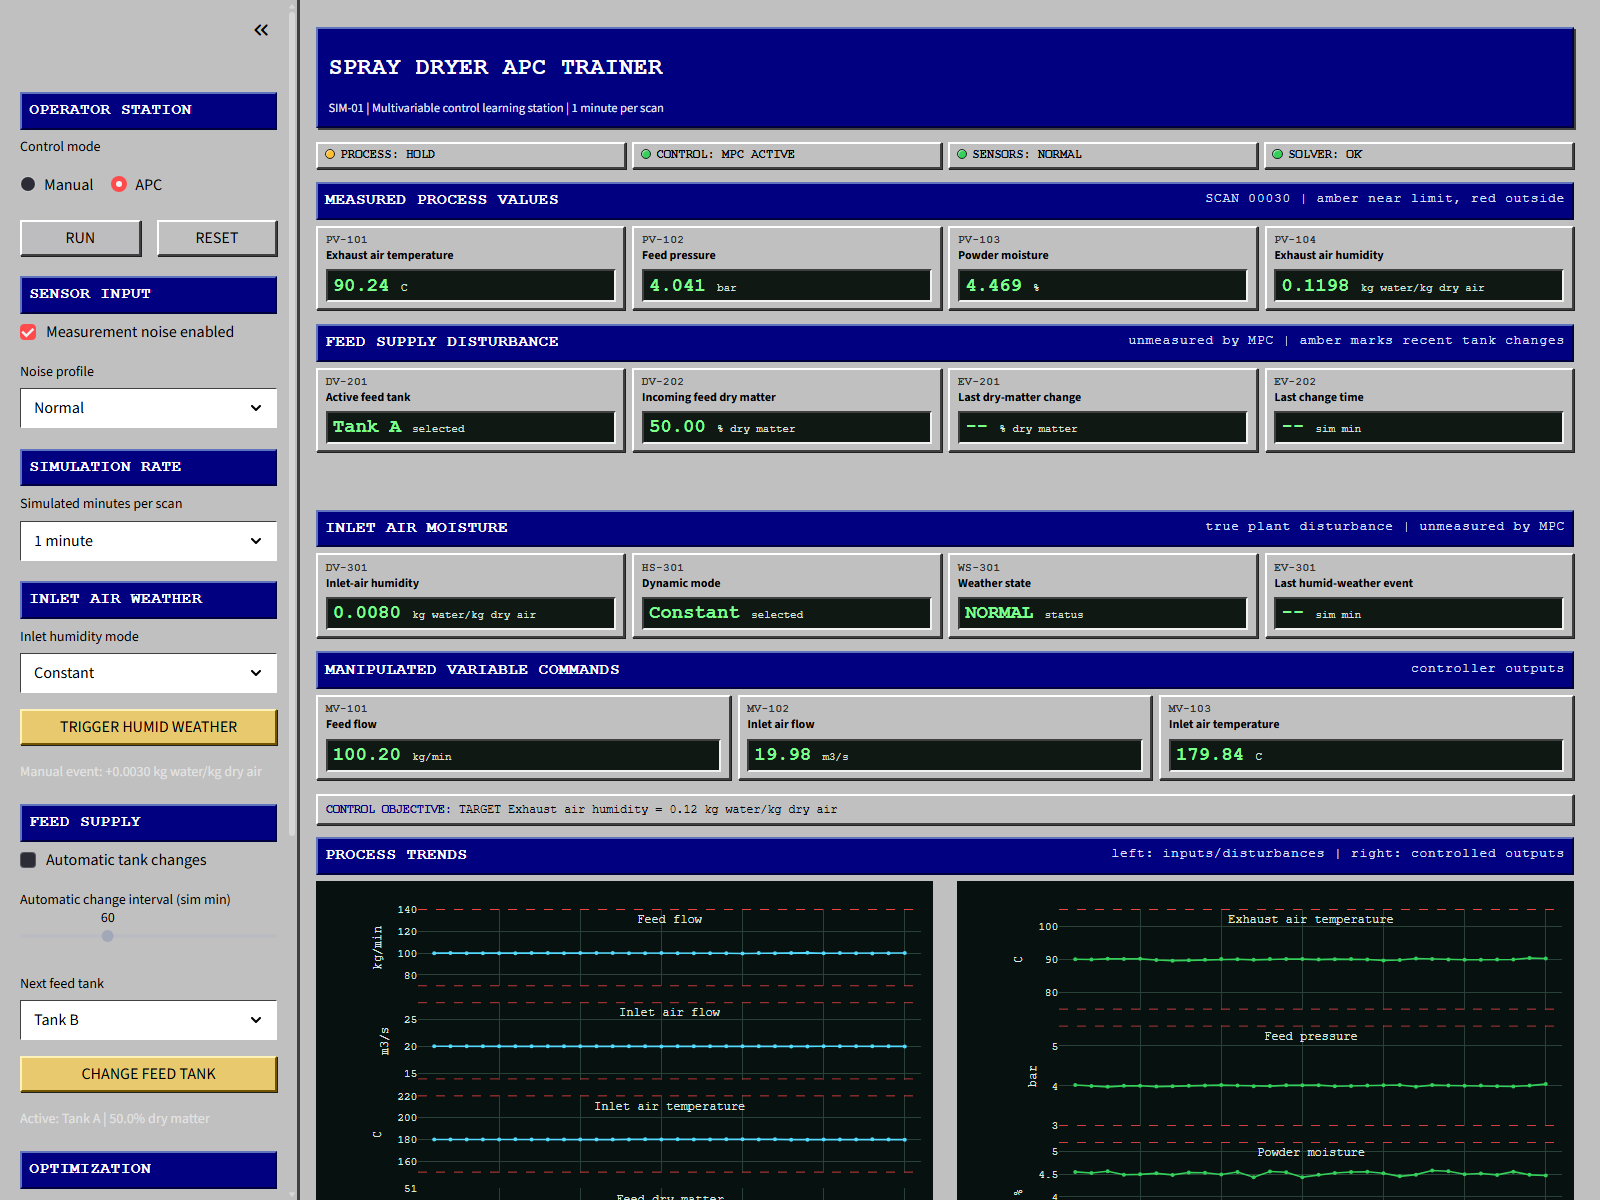
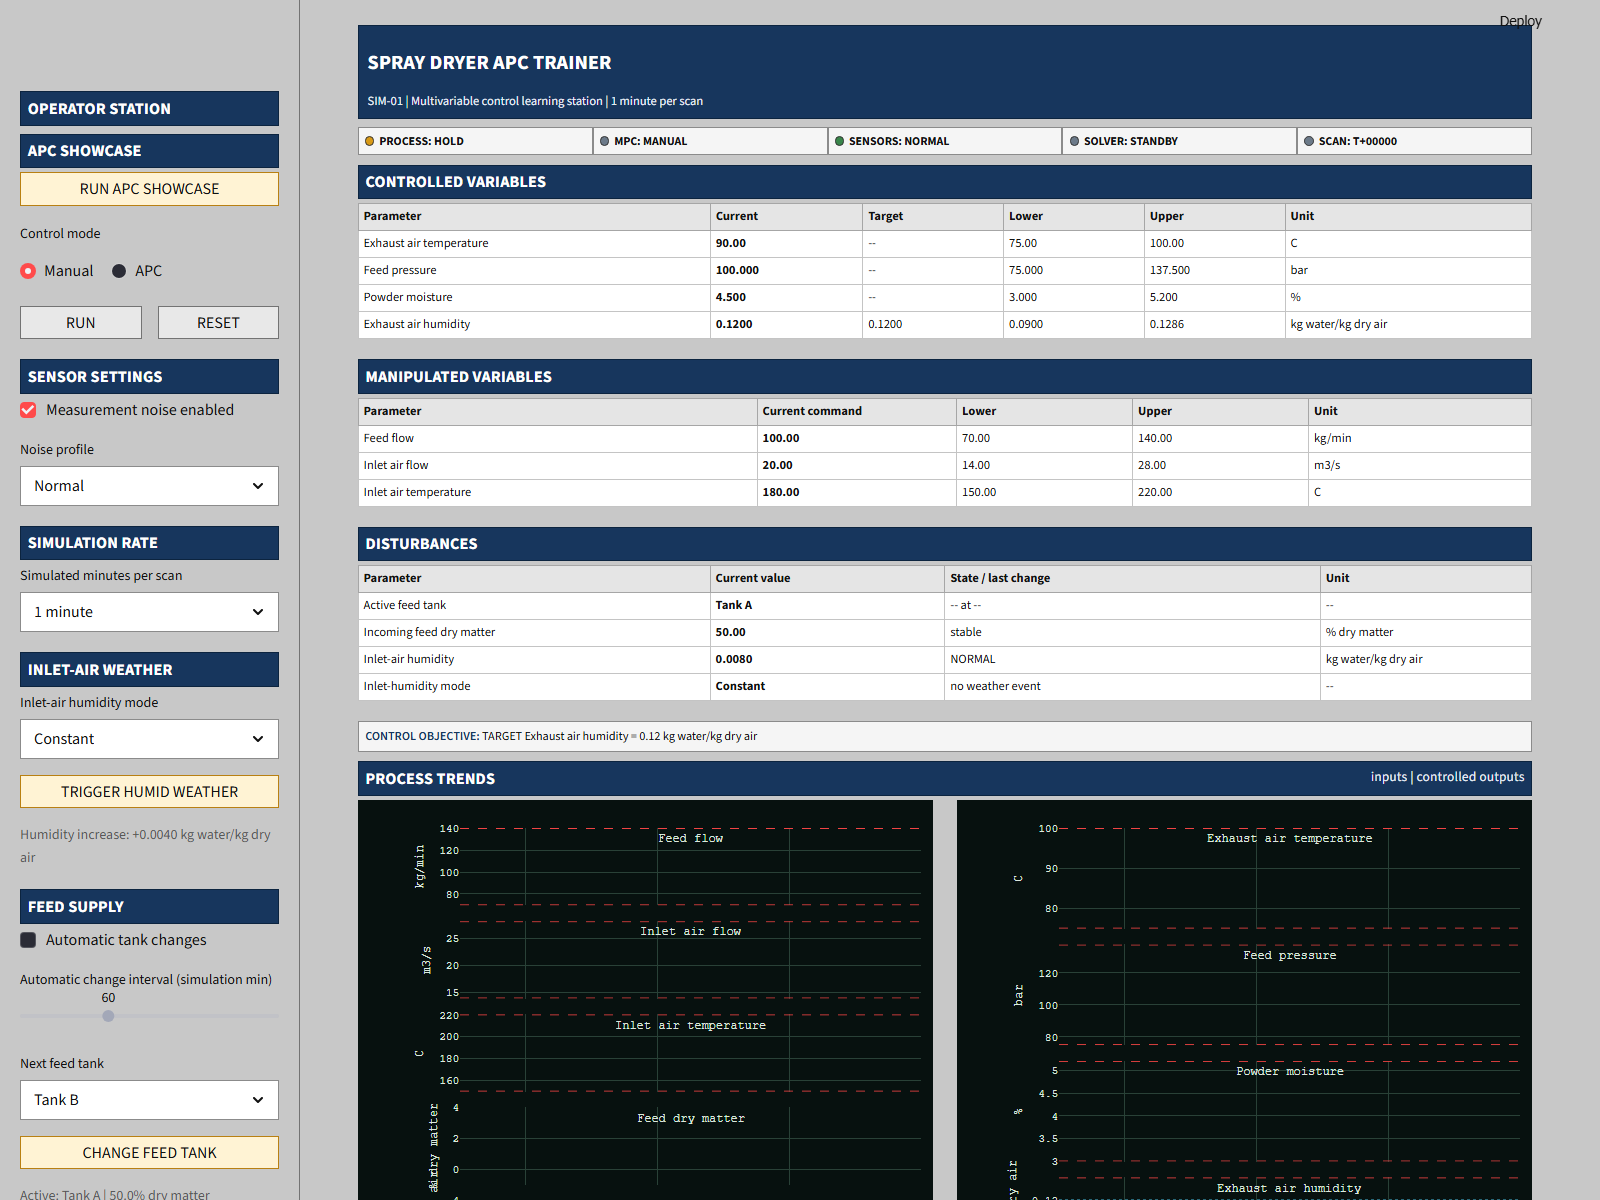
Polish APC dashboard and finalize documentation

diff --git a/apc_lab/components/operating_map/component.js b/apc_lab/components/operating_map/component.js
@@ -122,7 +122,7 @@ function staticTraces(background, snapshot, current) {
     mode: "lines",
     name: "Derived humidity maximum",
     line: { color: COLORS.risk, width: 1.5, dash: "dash" },
-    hovertemplate: `Derived humidity maximum: ${constraint.maximum_humidity.toFixed(4)} kg/kg dry air<extra></extra>`,
+    hovertemplate: `Derived humidity maximum: ${constraint.maximum_humidity.toFixed(4)} kg water/kg dry air<extra></extra>`,
   });
   traces.push({
     x: [constraint.maximum_humidity],
@@ -130,7 +130,7 @@ function staticTraces(background, snapshot, current) {
     mode: "markers",
     name: "Safe-limit intersection",
     marker: { color: COLORS.risk, size: 9, symbol: "diamond" },
-    hovertemplate: `Safe-limit intersection<br>w=${constraint.maximum_humidity.toFixed(4)} kg/kg dry air<br>T=${constraint.maximum_exhaust_temperature.toFixed(1)} C<extra></extra>`,
+    hovertemplate: `Safe-limit intersection<br>w=${constraint.maximum_humidity.toFixed(4)} kg water/kg dry air<br>T=${constraint.maximum_exhaust_temperature.toFixed(1)} C<extra></extra>`,
   });
   traces.push({
     x: [null],

diff --git a/live_app.py b/live_app.py
@@ -548,9 +548,9 @@ rejects both through measured-output feedback.
             """
 The input delay is **3 simulated minutes**. A tank change sets a new dry-matter
 target and the feed line transitions to it with a **2 minute** first-order lag.
-Inlet humidity is represented as kg water per kg dry air. Sensible heating does
-not change this humidity ratio; humid weather therefore adds water load at the
-dryer inlet.
+Inlet-air humidity is represented as kg water per kg dry air. Sensible heating
+does not change this humidity ratio; humid weather therefore adds water load at
+the dryer inlet.
 A gain is the final output change caused by one unit of input change, with
 other inputs held constant. Sensor noise can be disabled or scaled in the
 operator station.
@@ -628,8 +628,8 @@ The operating map uses the true simulated exhaust temperature and humidity
 ratio. Moist-air enthalpy is calculated as
 `h = 1.006 T + w (2501 + 1.86 T)` in kJ/kg dry air. Relative-humidity
 references use the Antoine saturation-pressure correlation at 101.325 kPa.
-The displayed stickiness curve is a configured, product-independent model
-boundary. It is not an operating limit for a real product or dryer.
+The displayed stickiness curve is a configured example boundary. It is not a
+validated correlation or operating limit for a real product or dryer.
 """
         )
 
@@ -837,7 +837,7 @@ with st.sidebar:
         "RESET", width="stretch", on_click=reset, disabled=showcase.engaged
     )
 
-    render_sidebar_title("SENSOR INPUT")
+    render_sidebar_title("SENSOR SETTINGS")
     noise_checkbox_args: dict[str, object] = {
         "key": "noise_enabled",
         "disabled": showcase.engaged,
@@ -869,9 +869,9 @@ with st.sidebar:
     st.session_state.dryer.configure_time_step(simulation_minutes_per_tick)
     st.session_state.controller.configure_time_step(simulation_minutes_per_tick)
 
-    render_sidebar_title("INLET AIR WEATHER")
+    render_sidebar_title("INLET-AIR WEATHER")
     weather_mode = st.selectbox(
-        "Inlet humidity mode",
+        "Inlet-air humidity mode",
         WEATHER_MODES,
         index=widget_default("weather_mode", 0),
         key="weather_mode",
@@ -887,7 +887,7 @@ with st.sidebar:
         disabled=showcase.engaged,
     )
     st.caption(
-        f"Manual event: +{HUMID_WEATHER_INCREASE:.4f} {INLET_HUMIDITY_UNIT}"
+        f"Humidity increase: +{HUMID_WEATHER_INCREASE:.4f} {INLET_HUMIDITY_UNIT}"
     )
 
     render_sidebar_title("FEED SUPPLY")
@@ -903,7 +903,7 @@ with st.sidebar:
         **automatic_tank_checkbox_args,
     )
     automatic_tank_interval = st.slider(
-        "Automatic change interval (sim min)",
+        "Automatic change interval (simulation min)",
         30,
         120,
         widget_default("automatic_tank_interval", 60),
@@ -1242,10 +1242,34 @@ def live_panel() -> None:
     weather_active = weather_manager.state != "NORMAL"
     render_section_title("DISTURBANCES")
     disturbance_rows = [
-        ["Active feed tank", tank_manager.current_tank, f"{last_change_values} at {last_change_minute}", "selected"],
-        ["Incoming feed dry matter", f"{st.session_state.dryer.feed_dry_matter:.2f}", "recent change" if recent_tank_event else "stable", FEED_DRY_MATTER_UNIT],
-        ["Inlet-air humidity", f"{weather_manager.inlet_humidity:.4f}", weather_manager.state, INLET_HUMIDITY_UNIT],
-        ["Dynamic-humidity mode", weather_manager.mode, f"last event T+{last_weather_event.minute:05d}" if last_weather_event is not None else "no weather event", "selected"],
+        [
+            "Active feed tank",
+            tank_manager.current_tank,
+            f"{last_change_values} at {last_change_minute}",
+            "--",
+        ],
+        [
+            "Incoming feed dry matter",
+            f"{st.session_state.dryer.feed_dry_matter:.2f}",
+            "recent change" if recent_tank_event else "stable",
+            FEED_DRY_MATTER_UNIT,
+        ],
+        [
+            "Inlet-air humidity",
+            f"{weather_manager.inlet_humidity:.4f}",
+            weather_manager.state,
+            INLET_HUMIDITY_UNIT,
+        ],
+        [
+            "Inlet-humidity mode",
+            weather_manager.mode,
+            (
+                f"last event T+{last_weather_event.minute:05d}"
+                if last_weather_event is not None
+                else "no weather event"
+            ),
+            "--",
+        ],
     ]
     render_parameter_table(
         ["Parameter", "Current value", "State / last change", "Unit"],
@@ -1302,7 +1326,7 @@ def live_panel() -> None:
         next_action_text = (
             f"Next: {next_action[0]} in {next_action[1]} min"
             if next_action is not None
-            else "Sequence complete | process in HOLD"
+            else "Sequence complete | operator handoff"
         )
         render_showcase_banner(
             phase=f"SHOWCASE {phase_info.number}/5 - {phase_info.title}",
@@ -1330,9 +1354,10 @@ def live_panel() -> None:
         config={
             "input_names": list(INPUT_NAMES)
             + [FEED_DRY_MATTER_HISTORY_NAME, INLET_HUMIDITY_HISTORY_NAME],
-            "input_units": list(INPUT_UNITS) + ["% DM", "kg/kg dry air"],
+            "input_units": list(INPUT_UNITS)
+            + ["% dry matter", "kg water/kg dry air"],
             "output_names": list(OUTPUT_NAMES),
-            "output_units": list(OUTPUT_UNITS[:3]) + ["kg/kg dry air"],
+            "output_units": list(OUTPUT_UNITS),
             "process_input_count": len(INPUT_NAMES),
             "input_limits": {
                 "lower": input_min.tolist(),
@@ -1475,7 +1500,7 @@ def live_panel() -> None:
                 ),
                 ScadaValue(
                     tag="MAP-102",
-                    label="Exhaust humidity ratio",
+                    label="Exhaust air humidity ratio",
                     value=f"{current_map_point['humidity']:.4f}",
                     unit="kg water/kg dry air",
                     state=map_state,
@@ -1518,17 +1543,18 @@ def live_panel() -> None:
         ):
             render_message(
                 "CONFIGURATION CONFLICT",
-                f"Humidity target {objective_target:.4f} exceeds the derived "
+                f"Exhaust air humidity target {objective_target:.4f} exceeds "
+                "the derived "
                 f"safe upper limit {derived_humidity_max:.4f} kg water/kg dry air.",
             )
         render_operating_map(map_payload)
     st.session_state.operating_map_last_sample_id = next_map_sample_id
     st.session_state.operating_map_needs_snapshot = False
 
-    with st.expander("PROCESS DISTURBANCE EVENT LOG"):
+    with st.expander("PROCESS EVENT LOG"):
         event_rows = [
             {
-                "Sim minute": event.minute,
+                "Simulation minute": event.minute,
                 "Event": event.event_type,
                 "From": f"{event.old_tank} ({event.old_dry_matter:.1f}% DM)",
                 "To": f"{event.new_tank} ({event.new_dry_matter:.1f}% DM)",
@@ -1537,7 +1563,7 @@ def live_panel() -> None:
         ]
         event_rows.extend(
             {
-                "Sim minute": event.minute,
+                "Simulation minute": event.minute,
                 "Event": event.event_type,
                 "From": "NORMAL",
                 "To": f"+{event.humidity_increase:.4f} {INLET_HUMIDITY_UNIT}",
@@ -1546,18 +1572,18 @@ def live_panel() -> None:
         )
         event_rows.extend(
             {
-                "Sim minute": event.minute,
+                "Simulation minute": event.minute,
                 "Event": event.event_type,
-                "From": "GUIDED SEQUENCE",
+                "From": "APC SHOWCASE",
                 "To": event.detail,
             }
             for event in st.session_state.showcase_events
         )
-        event_rows.sort(key=lambda row: int(row["Sim minute"]), reverse=True)
+        event_rows.sort(key=lambda row: int(row["Simulation minute"]), reverse=True)
         st.dataframe(
             pd.DataFrame(
                 event_rows,
-                columns=("Sim minute", "Event", "From", "To"),
+                columns=("Simulation minute", "Event", "From", "To"),
             ),
             width="stretch",
             hide_index=True,

diff --git a/apc_lab/psychrometrics.py b/apc_lab/psychrometrics.py
@@ -43,7 +43,7 @@ def saturation_vapor_pressure_kpa(temperature_c: float | np.ndarray) -> np.ndarr
 
     Antoine coefficients use temperature in degC and pressure in mmHg. The
     lower set covers 1-100 degC and the upper set covers 99-374 degC; pressure
-    is converted to kPa. The map only evaluates the 60-125 degC overlap.
+    is converted to kPa. The configured map spans 55-135 degC.
     """
 
     temperature = np.asarray(temperature_c, dtype=float)

diff --git a/apc_lab/scada_ui.py b/apc_lab/scada_ui.py
@@ -1,4 +1,4 @@
-"""Small reusable presentation helpers for the retro SCADA dashboard."""
+"""Small reusable presentation helpers for the compact SCADA dashboard."""
 
 from dataclasses import dataclass
 from html import escape

diff --git a/tests/test_weather.py b/tests/test_weather.py
@@ -97,7 +97,7 @@ def test_reset_restores_initial_weather_state_and_clears_events():
     app = AppTest.from_file("live_app.py").run(timeout=30)
     initial_run_id = app.session_state.chart_run_id
 
-    _element_by_label(app.selectbox, "Inlet humidity mode").set_value(
+    _element_by_label(app.selectbox, "Inlet-air humidity mode").set_value(
         "Daily variation + weather events"
     )
     _element_by_label(app.button, "TRIGGER HUMID WEATHER").click().run(timeout=30)

diff --git a/README.md b/README.md
@@ -33,7 +33,7 @@ The script writes reproducible plots to the ignored `artifacts/` directory.
 
 ### 2. Live Multivariable APC
 
-`live_app.py` is the capstone lab. Its late-1990s-style industrial SCADA screen
+`live_app.py` is the capstone lab. Its compact industrial SCADA-style screen
 simulates three manipulated variables:
 
 - feed flow;
@@ -47,22 +47,21 @@ The MPC predicts four constrained outputs:
 - powder moisture;
 - exhaust-air humidity.
 
-Manual mode accepts operator input commands. APC mode predicts future
-behavior, optimizes the selected target, maximize, or minimize objective,
-applies the first move, and solves again. Each input has an operating range,
-move limit, and enable/freeze switch.
+Manual mode accepts operator input commands. APC mode uses the MPC to predict
+future behavior, solve the selected Target, Maximize, or Minimize objective,
+apply the first move, and solve again. Each input has an operating range, move
+limit, and enable/freeze switch.
 
 ### Guided APC Showcase
 
 Press **RUN APC SHOWCASE** in the operator station for one deterministic,
-200-simulation-minute demonstration with two minutes represented by each scan.
-It holds nominal manual inputs while humid weather and a tank change move the
-process, enables APC at minute 110,
-and applies a later tank-change challenge before pausing with summary metrics.
-The summary reports target-band time, normalized controlled-variable error,
-moisture deviation, constraint violations, recovery time, and input movement;
-it is a guided run rather than a controlled A/B benchmark. **HOLD** pauses the
-scenario, and leaving showcase mode restores the normal interactive dashboard.
+100-simulation-minute operator sequence with two minutes represented by each
+scan. It starts the normal simulation in manual control, changes from Tank A to
+Tank C around minute 15, enables APC around minute 35, and changes back to Tank
+A around minute 65. At minute 100 the automation releases control without
+resetting or pausing: the process keeps running, MPC remains active, and the
+normal controls become available with all state and trends retained. **HOLD**
+can pause the sequence. A new Showcase requires a normal **RESET**.
 
 ### Measurements And Disturbances
 
@@ -83,30 +82,34 @@ through measured-output feedback after the plant responds.
 
 ### Live Process Trends
 
-The persistent client-side Plotly component appends samples without rebuilding
-the charts each scan. The left column contains the three input commands plus
-feed dry matter and inlet-air humidity. The right column contains the four
-controlled outputs, predictions, targets, and constraints. Both columns share
-simulation time and tank/weather event markers while retaining zoom,
-auto-follow, HOLD, and RESET behavior.
+The persistent client-side Plotly.js component appends samples in place without
+rebuilding the charts each scan. The left column contains the three input
+commands plus feed dry matter and inlet-air humidity. The right column contains
+the four controlled outputs, predictions, targets, and constraints. Both
+columns share simulation time and tank/weather event markers while retaining
+zoom, auto-follow, HOLD, and RESET behavior.
 
 ### Mollier / Stickiness Map
 
 The collapsed operating-map section combines true simulated exhaust-air
 temperature and humidity ratio. It includes selected relative-humidity curves,
 constant-enthalpy lines, a saturation segment, a 60-sample operating trail,
-and a configured stickiness boundary. The displayed margin is:
+a configured stickiness boundary, and a five-degree temperature safety offset.
+The intersection of that safe boundary with the configured maximum exhaust-air
+temperature determines the MPC upper constraint for exhaust air humidity. The
+same limit appears in Process Trends, the dashboard, and the map. The lower
+humidity limit remains a process/efficiency constraint. With the default
+100 C maximum exhaust-air temperature, the derived upper humidity limit is
+approximately 0.1286 kg water/kg dry air. The displayed margin is:
 
 ```text
 stickiness margin = boundary temperature at current humidity
                   - current exhaust temperature
 ```
 
-The boundary is configured for this model and is not product-specific. Tank,
-weather, and control changes move the point only through the simulated process
-response.
-
-![Expanded Mollier and stickiness operating map](docs/images/mollier-map.png)
+The boundary is configured simulation logic, not a universally valid product or
+industrial correlation. Tank, weather, and control changes move the point only
+through the simulated process response.
 
 ## Architecture
 
@@ -120,7 +123,7 @@ response.
 | `apc_lab/psychrometrics.py` | Moist-air references and configured stickiness assessment. |
 | `apc_lab/process_trends_component.py` | Persistent Process Trends wrapper and payload logic. |
 | `apc_lab/operating_map_component.py` | Persistent operating-map wrapper and payload logic. |
-| `apc_lab/scada_ui.py` | Reusable retro SCADA styling and status helpers. |
+| `apc_lab/scada_ui.py` | Reusable compact SCADA styling and status helpers. |
 | `apc_lab/spray_dryer.py` | Introductory SISO process simulation. |
 | `apc_lab/pid.py` | PID implementation with anti-windup and limits. |
 | `apc_lab/identification.py` | SISO FOPDT model and step-response fitting. |
@@ -168,6 +171,15 @@ Run the SISO learning sequence:
 python run_lab.py
 ```
 
+## Streamlit Community Cloud
+
+Deploy the repository with branch `main` and entry point `live_app.py`. The
+root `requirements.txt` contains `.`, so Community Cloud installs the project,
+its runtime dependencies, and the packaged Plotly.js component assets from
+`pyproject.toml`. No secrets or external services are required. The CI and
+hosted deployment use Python 3.12; local installations support Python 3.10 or
+newer. Streamlit 1.57 or newer is required for the v2 custom-component API.
+
 ## Test
 
 ```powershell
@@ -203,10 +215,10 @@ repository.
   than a full mass-and-energy balance.
 - Sensor noise is independent Gaussian noise without bias, drift, filtering,
   or correlated disturbances.
-- Feed composition uses a simple feed-line lag, and inlet humidity uses a
+- Feed composition uses a simple feed-line lag, and inlet-air humidity uses a
   deterministic daily profile and generic weather event.
-- The operating map uses approximate moist-air relationships and one
-  product-independent configured boundary.
+- The operating map uses approximate moist-air relationships and one configured
+  example boundary that is not validated for a product or production dryer.
 - The MPC supports one primary objective at a time.
 - Dataset fitting assumes clean, numeric, evenly sampled data and does not
   calculate statistical confidence.

diff --git a/apc_lab/components/process_trends/README.md b/apc_lab/components/process_trends/README.md
@@ -10,6 +10,11 @@ python -m pip install -e ".[dev]"
 
 No Node.js build is required. The Python wrappers load the component scripts
 and pinned `plotly-3.5.0.min.js` bundle from package data, then register them
-with Streamlit's v2 component API. The bundle is the one distributed with
-Plotly.py 6.7.0. Its license and attribution are retained in
-`THIRD_PARTY_NOTICES.md` at the repository root.
+lazily with Streamlit's v2 component API. Process Trends appends live samples
+with `Plotly.extendTraces`; RESET or a new run replaces the bounded snapshot
+while preserving one stable chart mount during normal scans. The operating map
+uses the same packaged bundle and updates its operating point and trail in
+place.
+
+The bundle is the one distributed with Plotly.py 6.7.0. Its license and
+attribution are retained in `THIRD_PARTY_NOTICES.md` at the repository root.